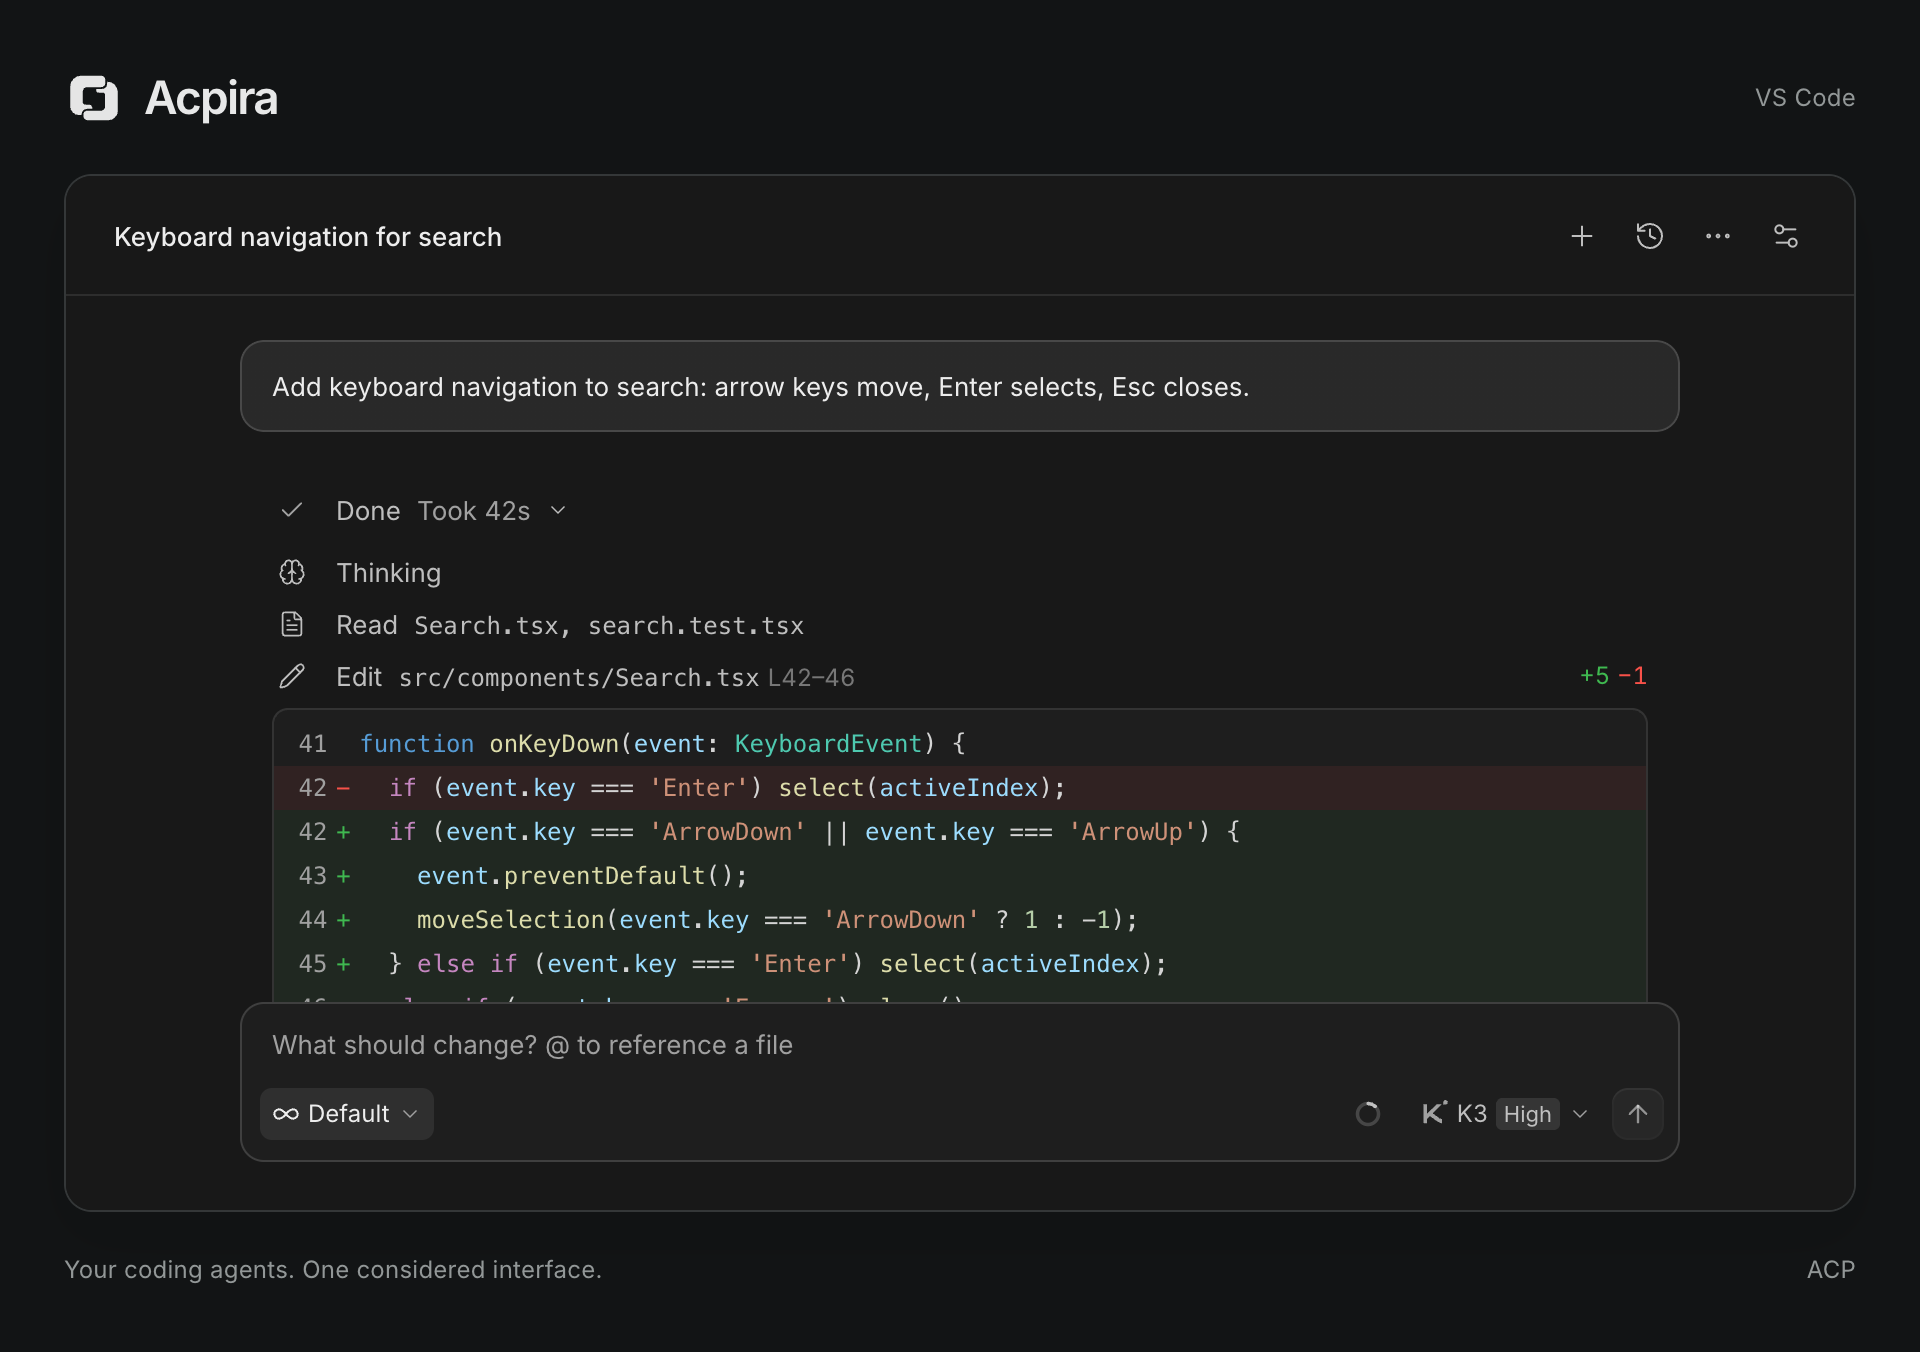
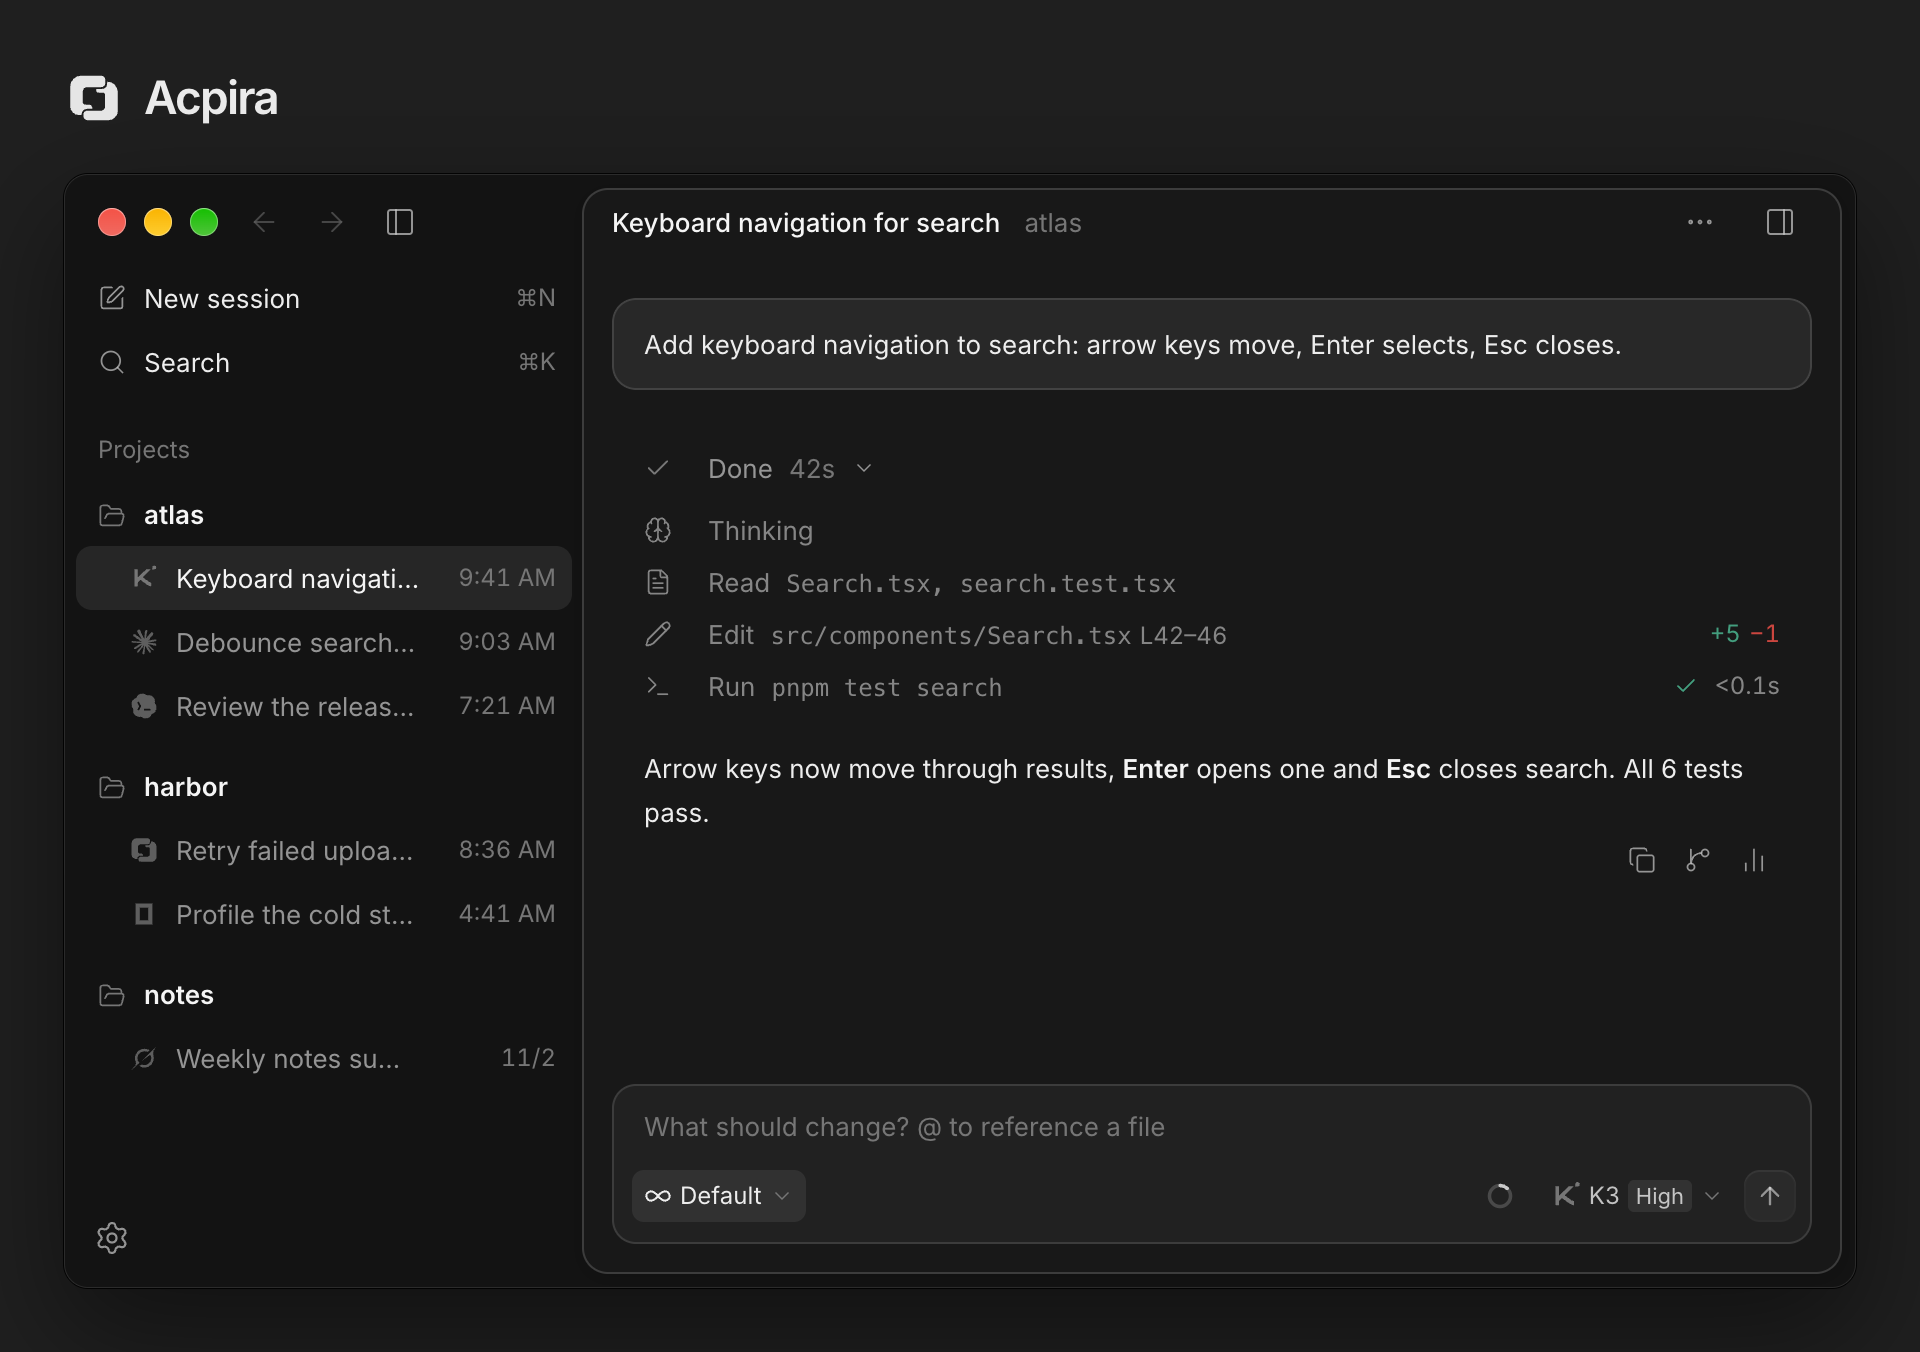
docs(readme): re-record the feature media and add the OS and IDE tiles

diff --git a/README.md b/README.md
@@ -15,7 +15,7 @@ Acpira is built on [ACP](https://agentclientprotocol.com) with a Rust core. It r
 <picture>
   <source media="(prefers-color-scheme: dark)" srcset="https://raw.githubusercontent.com/hotic/acpira/main/media/readme/hero-dark.png">
   <source media="(prefers-color-scheme: light)" srcset="https://raw.githubusercontent.com/hotic/acpira/main/media/readme/hero-light.png">
-  <img src="media/readme/hero-light.png" alt="Acpira showing a coding conversation, an expanded execution history, an inline code diff, and model controls." width="960">
+  <img src="media/readme/hero-light.png" alt="The Acpira desktop app: sessions grouped by project, a finished Kimi Code turn with its execution history open, and the model controls." width="960">
 </picture>
 
 - **An agent of its own.** The built-in agent reads, edits, runs commands, searches the web, and plans with any OpenAI- or Anthropic-compatible endpoint. Vendor CLIs keep their own harness and run beside it.
@@ -38,13 +38,13 @@ Acpira is built on [ACP](https://agentclientprotocol.com) with a Rust core. It r
     </td>
     <td width="50%" valign="top">
       <a href="media/readme/agents.gif">
-        <img src="media/readme/agents.gif" width="100%" alt="From a Claude Code session, OpenCode is installed on its settings page. A new OpenCode session then starts from the + menu and runs the tests.">
+        <img src="media/readme/agents.gif" width="100%" alt="From a Claude Code session, OpenCode is installed from its card on the Models page. A new session then picks OpenCode on its start page and runs the tests.">
       </a>
     </td>
   </tr>
   <tr>
     <td valign="top">Reads, edits, and test runs appear as they happen. A message sent while the agent works joins the running turn, and the finished turn folds into one row that opens again on click.</td>
-    <td valign="top">Install an agent from its settings page, then start a session with it from the + menu.</td>
+    <td valign="top">Install an agent from its settings, then pick it on a new session's start page.</td>
   </tr>
   <tr>
     <th width="50%">Cross-agent subagents</th>
@@ -82,6 +82,35 @@ The desktop app and the IDE plugins run the same engine and share sessions, acco
 | **iPhone** | iOS, paired with a computer running Acpira | In testing, not yet on the App Store |
 
 The desktop app adds a tool panel beside the conversation with files, terminals, and a browser, plus SSH remote folders and device pairing. A Linux build of the desktop app works but is not released yet.
+
+<p align="center">
+  <img src="media/readme/os.gif" width="720" alt="The same desktop window as macOS, Windows, and Linux frame it: the traffic lights on macOS, the page-drawn caption buttons on Windows and Linux, and each system's shortcut keys.">
+</p>
+
+<table width="100%">
+  <tr>
+    <th width="50%">VS Code</th>
+    <th width="50%">IntelliJ IDEA</th>
+  </tr>
+  <tr>
+    <td width="50%" valign="top">
+      <a href="media/readme/vscode.gif">
+        <img src="media/readme/vscode.gif" width="100%" alt="In the VS Code side bar, a Kimi Code turn reads, edits, and runs the tests. Its file link then opens Search.tsx in the editor at the changed lines.">
+      </a>
+    </td>
+    <td width="50%" valign="top">
+      <a href="media/readme/intellij.gif">
+        <img src="media/readme/intellij.gif" width="100%" alt="In an IntelliJ IDEA tool window, the same turn runs. The edit's diff opens in place, and its file link moves the editor to the change.">
+      </a>
+    </td>
+  </tr>
+  <tr>
+    <td valign="top">The extension sits in the side bar, and file links in the conversation open the editor at the change.</td>
+    <td valign="top">The plugin runs as a tool window beside the editor, with the same conversation and diffs.</td>
+  </tr>
+</table>
+
+*The IDE clips run the extension and the plugin inside VS Code and IntelliJ IDEA, driven by a scripted agent. The desktop frames for Windows and Linux are rendered from the same interface on a Mac.*
 
 ## Why keep the native agents?
 

diff --git a/README.zh.md b/README.zh.md
@@ -15,7 +15,7 @@ Acpira 用 Rust 写成，通过 [ACP](https://agentclientprotocol.com) 让 Claud
 <picture>
   <source media="(prefers-color-scheme: dark)" srcset="https://raw.githubusercontent.com/hotic/acpira/main/media/readme/hero-dark.png">
   <source media="(prefers-color-scheme: light)" srcset="https://raw.githubusercontent.com/hotic/acpira/main/media/readme/hero-light.png">
-  <img src="media/readme/hero-light.png" alt="Acpira 编程对话：展开的执行过程、文件修改对比和模型控制。" width="960">
+  <img src="media/readme/hero-light.png" alt="Acpira 桌面端：按项目分组的会话列表，一个已完成的 Kimi Code 回合展开了执行过程，以及模型控制。" width="960">
 </picture>
 
 - **自带 Agent。** 内置 Agent 接上任何 OpenAI 或 Anthropic 兼容的端点，就能读文件、改代码、跑命令、联网搜索和制定计划。厂商的 CLI 保留自己的 Harness，与它并列可选。
@@ -38,13 +38,13 @@ Acpira 用 Rust 写成，通过 [ACP](https://agentclientprotocol.com) 让 Claud
     </td>
     <td width="50%" valign="top">
       <a href="media/readme/agents.gif">
-        <img src="media/readme/agents.gif" width="100%" alt="在 Claude Code 会话中打开设置，在 OpenCode 的设置页安装它，再从「+」菜单新建 OpenCode 会话并运行测试。">
+        <img src="media/readme/agents.gif" width="100%" alt="在 Claude Code 会话中打开设置，在「模型」页的 OpenCode 卡片里安装它，再在新会话的起始页选中 OpenCode 并运行测试。">
       </a>
     </td>
   </tr>
   <tr>
     <td valign="top">读取、修改、测试按进度逐条出现。Agent 工作时发出的消息直接加入正在运行的回合，结束后整个过程收成一行，点击即可重新展开。</td>
-    <td valign="top">在设置页安装 Agent，再从「+」菜单用它开始新会话。</td>
+    <td valign="top">在设置里安装 Agent，再在新会话的起始页选中它。</td>
   </tr>
   <tr>
     <th width="50%">跨 Agent 子代理</th>
@@ -82,6 +82,35 @@ Acpira 用 Rust 写成，通过 [ACP](https://agentclientprotocol.com) 让 Claud
 | **iPhone** | iOS，与运行 Acpira 的电脑配对使用 | 测试中，尚未上架 App Store |
 
 桌面端在对话旁边多了一个工具面板，内含文件、终端和浏览器，另外还支持 SSH 远程文件夹和设备配对。Linux 版桌面端已经能用，但还没有正式发布。
+
+<p align="center">
+  <img src="media/readme/os.gif" width="720" alt="同一个桌面窗口在 macOS、Windows、Linux 上的样子：macOS 是红绿灯，Windows 与 Linux 由页面绘制窗口按钮，快捷键也随系统变化。">
+</p>
+
+<table width="100%">
+  <tr>
+    <th width="50%">VS Code</th>
+    <th width="50%">IntelliJ IDEA</th>
+  </tr>
+  <tr>
+    <td width="50%" valign="top">
+      <a href="media/readme/vscode.gif">
+        <img src="media/readme/vscode.gif" width="100%" alt="在 VS Code 侧边栏里，Kimi Code 的回合读取文件、修改代码并运行测试，点击文件链接后编辑器打开 Search.tsx 并定位到改动的行。">
+      </a>
+    </td>
+    <td width="50%" valign="top">
+      <a href="media/readme/intellij.gif">
+        <img src="media/readme/intellij.gif" width="100%" alt="在 IntelliJ IDEA 的工具窗口里运行同一个回合，修改的差异在原地展开，点击文件链接后编辑器跳到改动处。">
+      </a>
+    </td>
+  </tr>
+  <tr>
+    <td valign="top">扩展位于侧边栏，对话里的文件链接会在编辑器中打开并定位到改动处。</td>
+    <td valign="top">插件以工具窗口的形式放在编辑器旁边，对话与差异展示和其他端一致。</td>
+  </tr>
+</table>
+
+*IDE 片段是扩展与插件在 VS Code 和 IntelliJ IDEA 中实际运行的画面，由脚本化的示例 Agent 驱动。Windows 与 Linux 的桌面窗口由同一套界面在 Mac 上渲染。*
 
 ## 为什么保留原生 Agent
 
